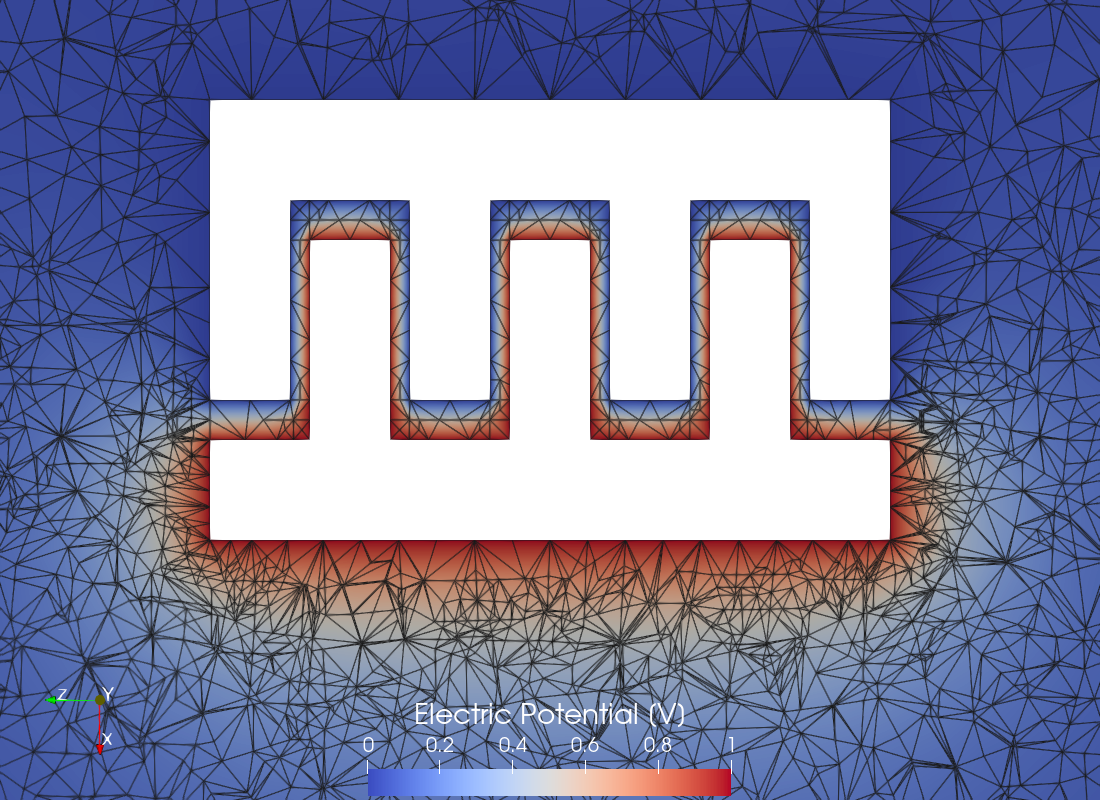
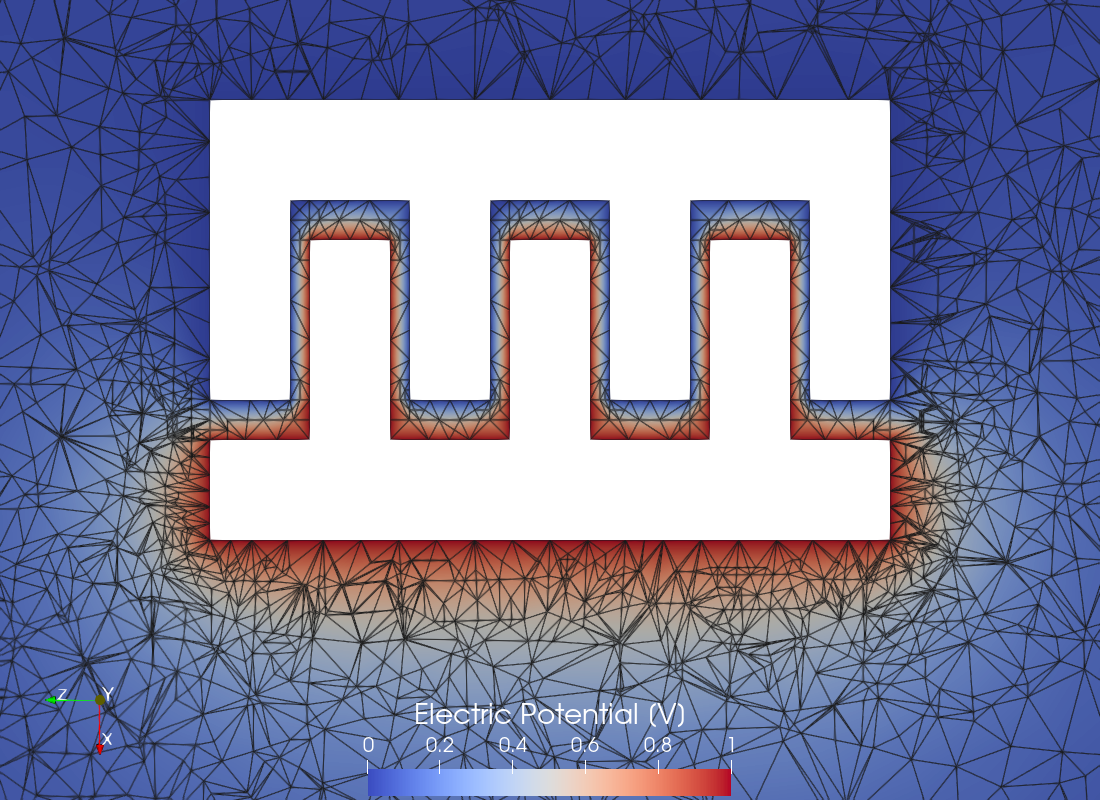
Increase the model order

diff --git a/Electromagnetics/Ren_2014_MEMS_Comb_Drive/case.py b/Electromagnetics/Ren_2014_MEMS_Comb_Drive/case.py
@@ -116,12 +116,12 @@ sim.get_model_manager().add_model(refinement_model)
 
 
 # Model --------------------------------------------------------------------------------
-order = 1  # finite element polynomial degree
+order = 2  # finite element polynomial degree
 model = ElectrostaticsModel(Everywhere @ Vol, order)
 sim.get_model_manager().add_model(model)
 
 mesh_refiner = model.get_mesh_refiner()
-mesh_refiner.set_refinement_fraction(0.6)
+mesh_refiner.set_refinement_fraction(0.3)
 
 
 # Materials ----------------------------------------------------------------------------
@@ -133,23 +133,11 @@ model.add_material(material)
 # Boundary conditions ------------------------------------------------------------------
 voltage = 1  # [V]
 
-condition_comb1 = ElectricPotentialCondition.Constant(
-    "Comb1",
-    "Comb1" @ Bnd,
-    0.0,
-)
+condition_comb1 = ElectricPotentialCondition.Constant("Comb1", "Comb1" @ Bnd, 0.0)
 
-condition_comb2 = ElectricPotentialCondition.Constant(
-    "Comb2",
-    "Comb2" @ Bnd,
-    voltage,
-)
+condition_comb2 = ElectricPotentialCondition.Constant("Comb2", "Comb2" @ Bnd, voltage)
 
-condition_ground = ElectricPotentialCondition.Constant(
-    "Ground",
-    "Ground" @ Bnd,
-    0.0,
-)
+condition_ground = ElectricPotentialCondition.Constant("Ground", "Ground" @ Bnd, 0.0)
 
 model.add_conditions([condition_comb1, condition_comb2, condition_ground])
 
@@ -163,7 +151,7 @@ sim.get_report_manager().add_report(report)
 
 
 # Run the simulation -------------------------------------------------------------------
-max_iterations = 25  # maximum number of iterations for each mesh file
+max_iterations = 10  # maximum number of iterations for each mesh file
 
 max_ncells = 1e5  # maximum number of cells
 

diff --git a/Electromagnetics/Ren_2014_MEMS_Comb_Drive/capacitance_vs_ncells.py b/Electromagnetics/Ren_2014_MEMS_Comb_Drive/capacitance_vs_ncells.py
@@ -15,6 +15,7 @@ for i, xshift in enumerate(xshifts):
 
     plt.plot(ncells / 1e3, capacitance / 1e-15, "o-", label=f"xshift = {xshift:.1f} μm")
 
+plt.ylim(2, 6)
 plt.legend(loc=0, frameon=False)
 plt.xlabel("Number of cells [10³]")
 plt.ylabel("Capacitance [fF]")
